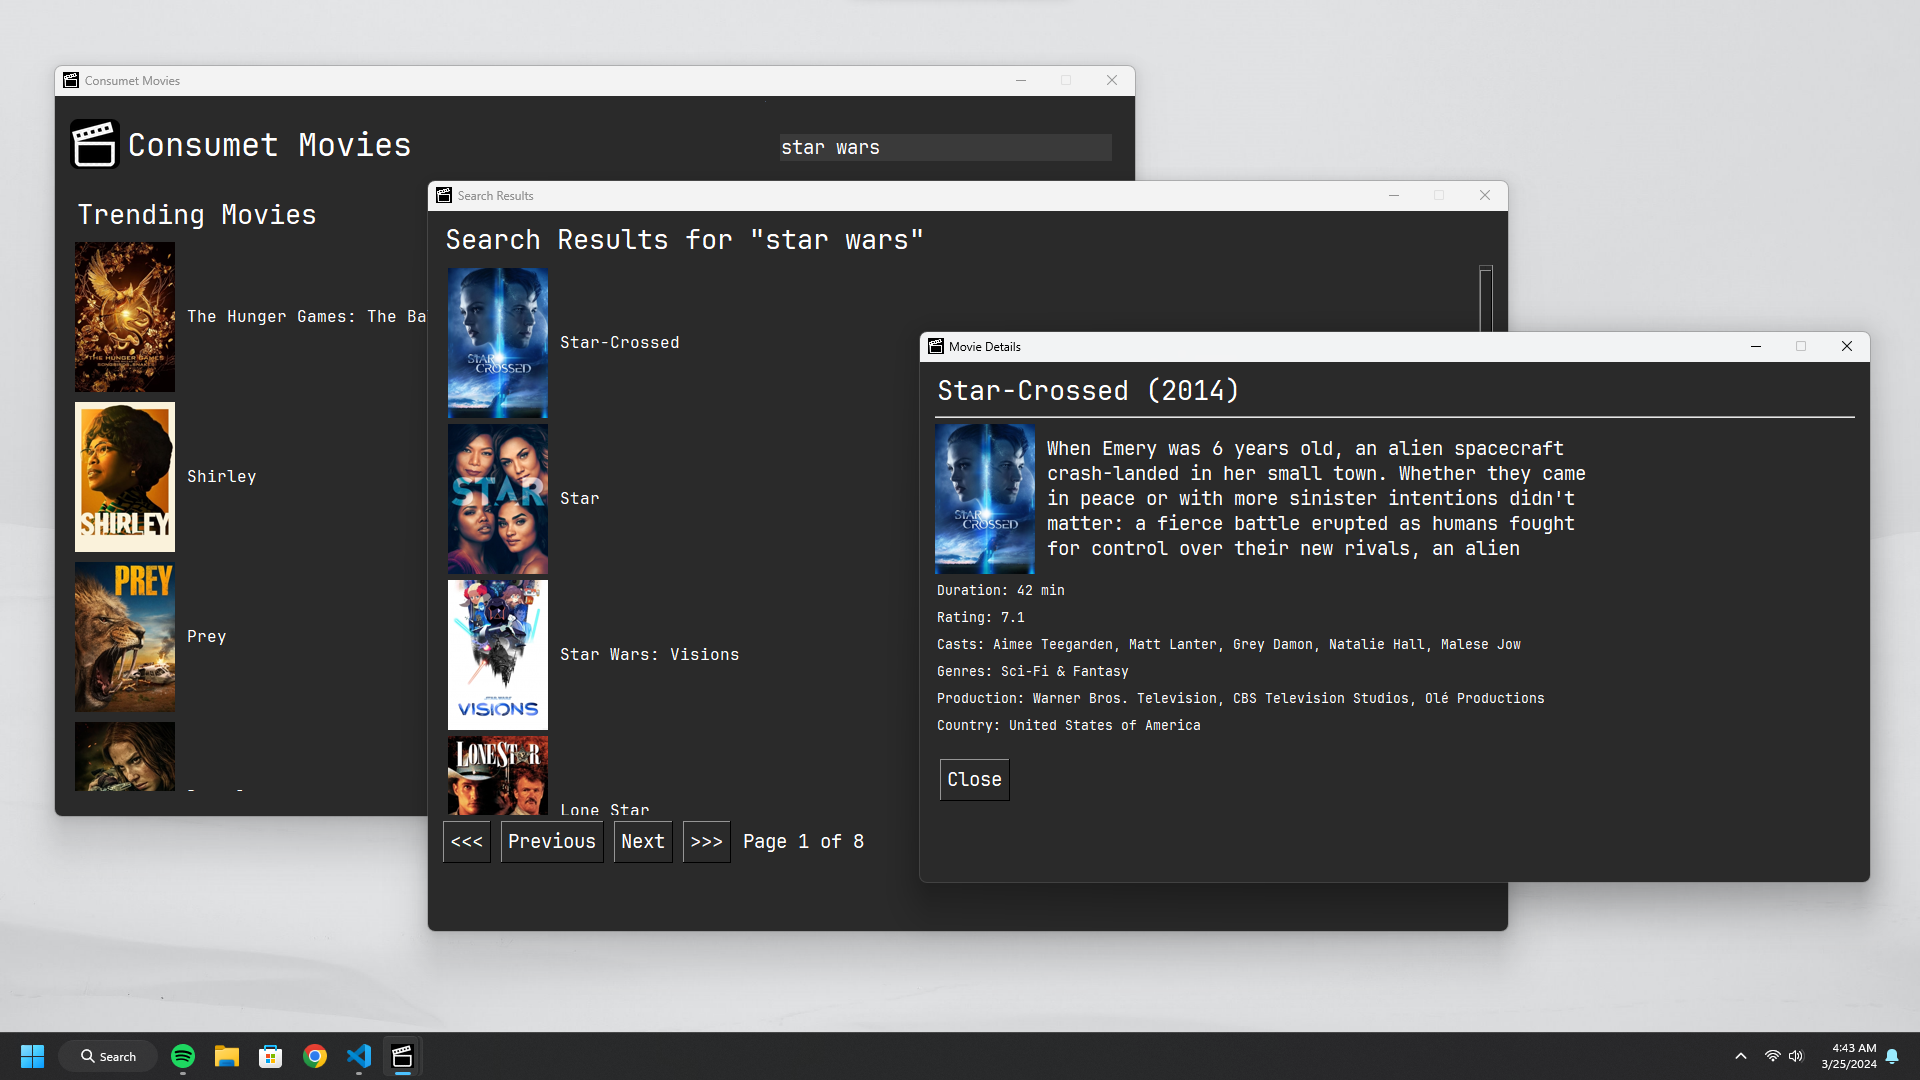
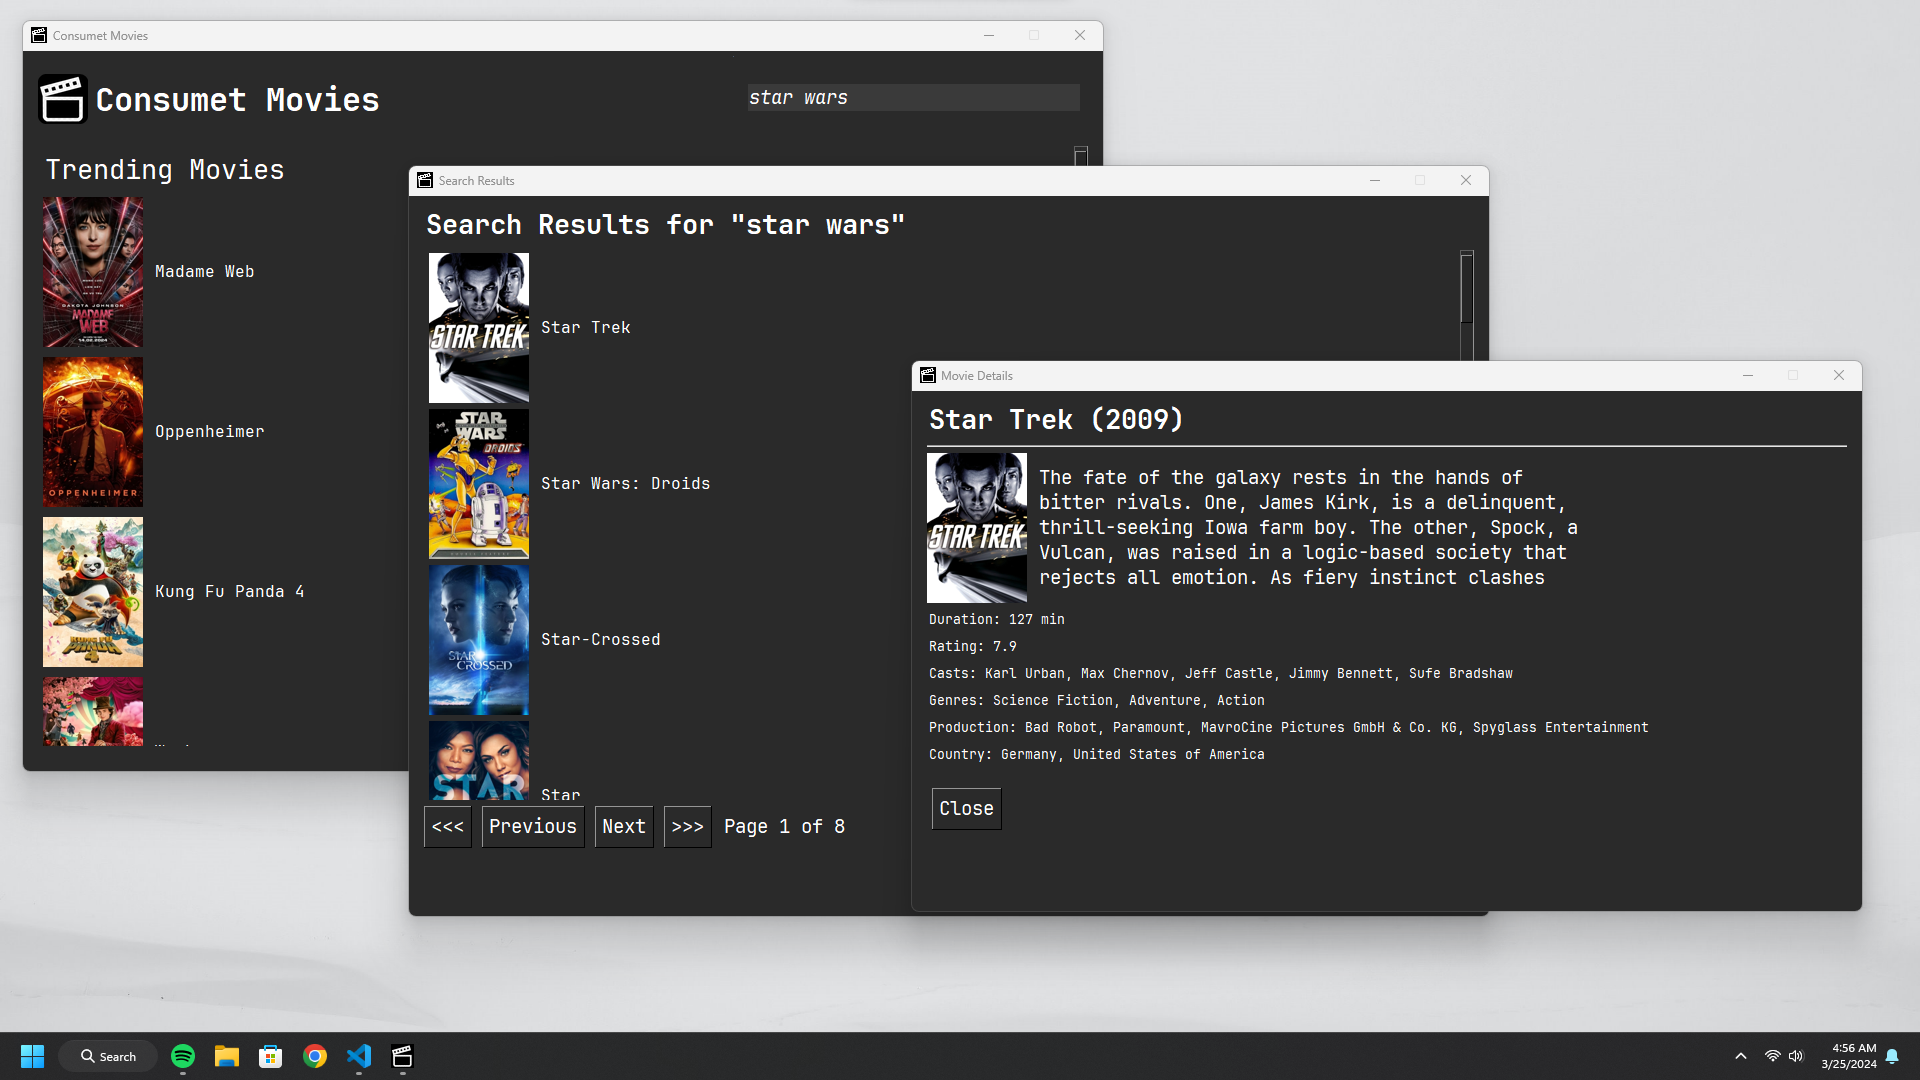
refactor: format using black

Changed region(s): [[0.0, 0.0306, 1.0, 0.8861], [0.8125, 0.6722, 0.8438, 0.7028], [0.125, 0.5194, 0.1562, 0.55]]

diff --git a/main.py b/main.py
@@ -173,7 +173,7 @@ async def display_results(results, query):
         [
             sg.Text(
                 f'Search Results for "{query}"',
-                font=("Jetbrains Mono", 20),
+                font=("Jetbrains Mono", 20, "bold"),
                 text_color="white",
                 background_color="#2a2a2a",
             )
